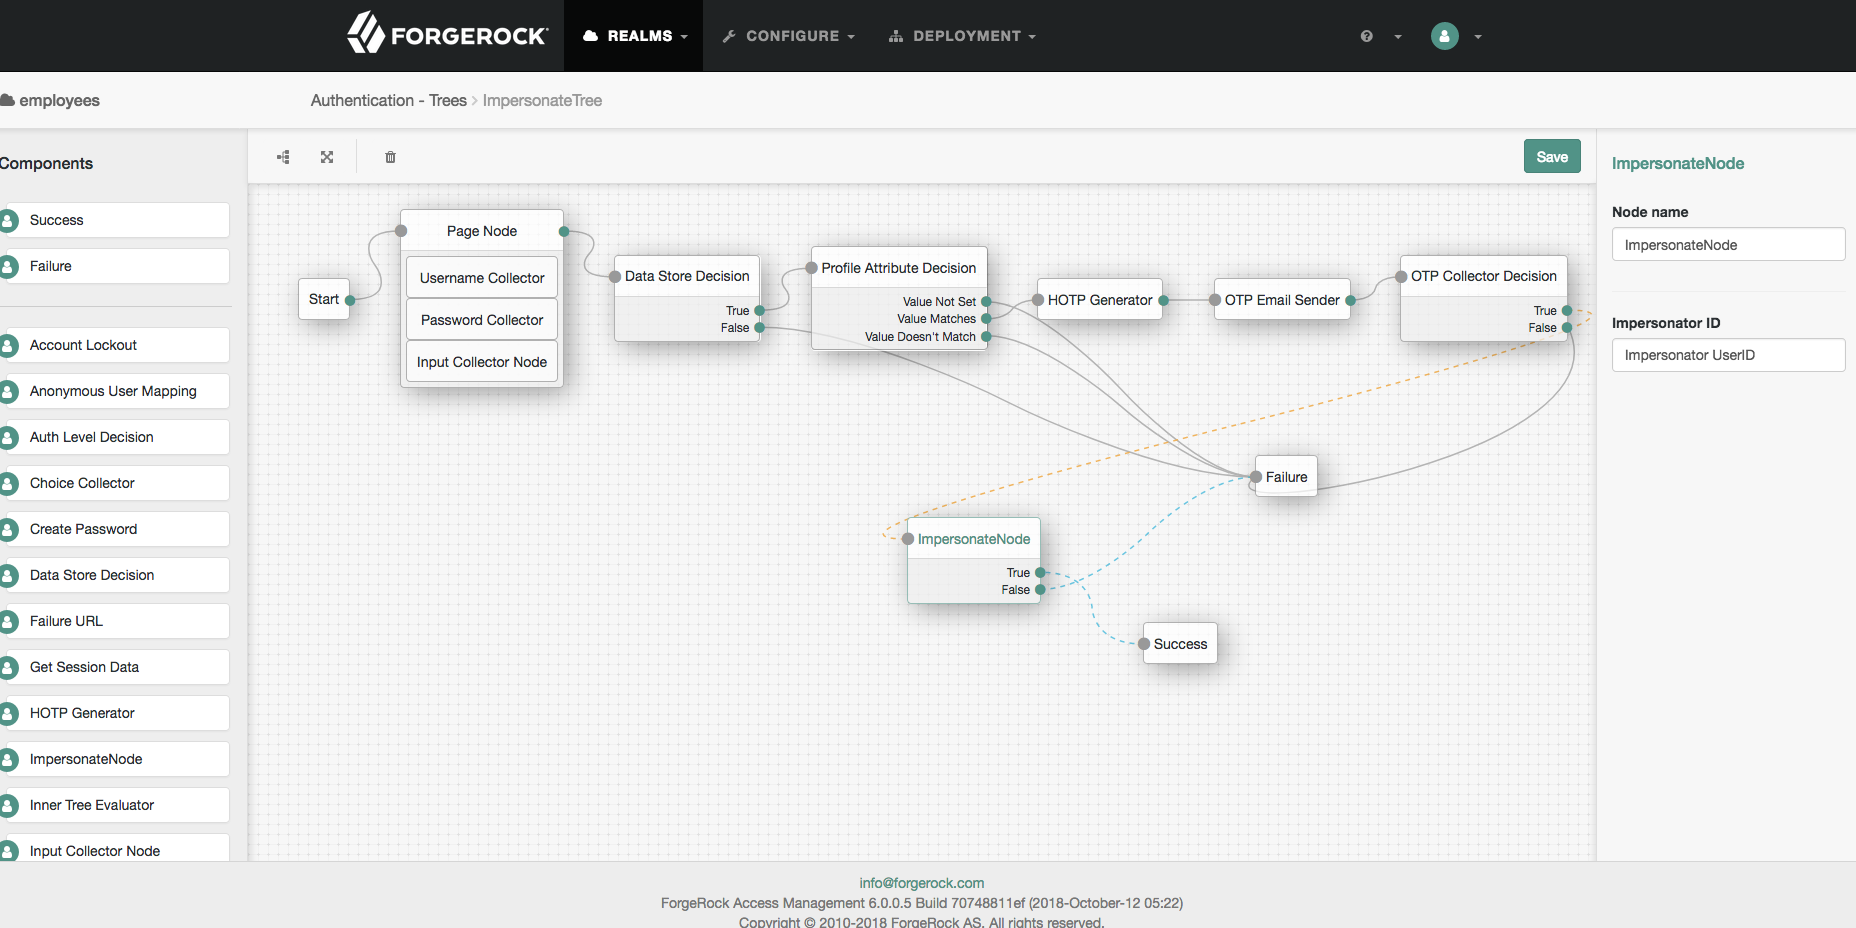
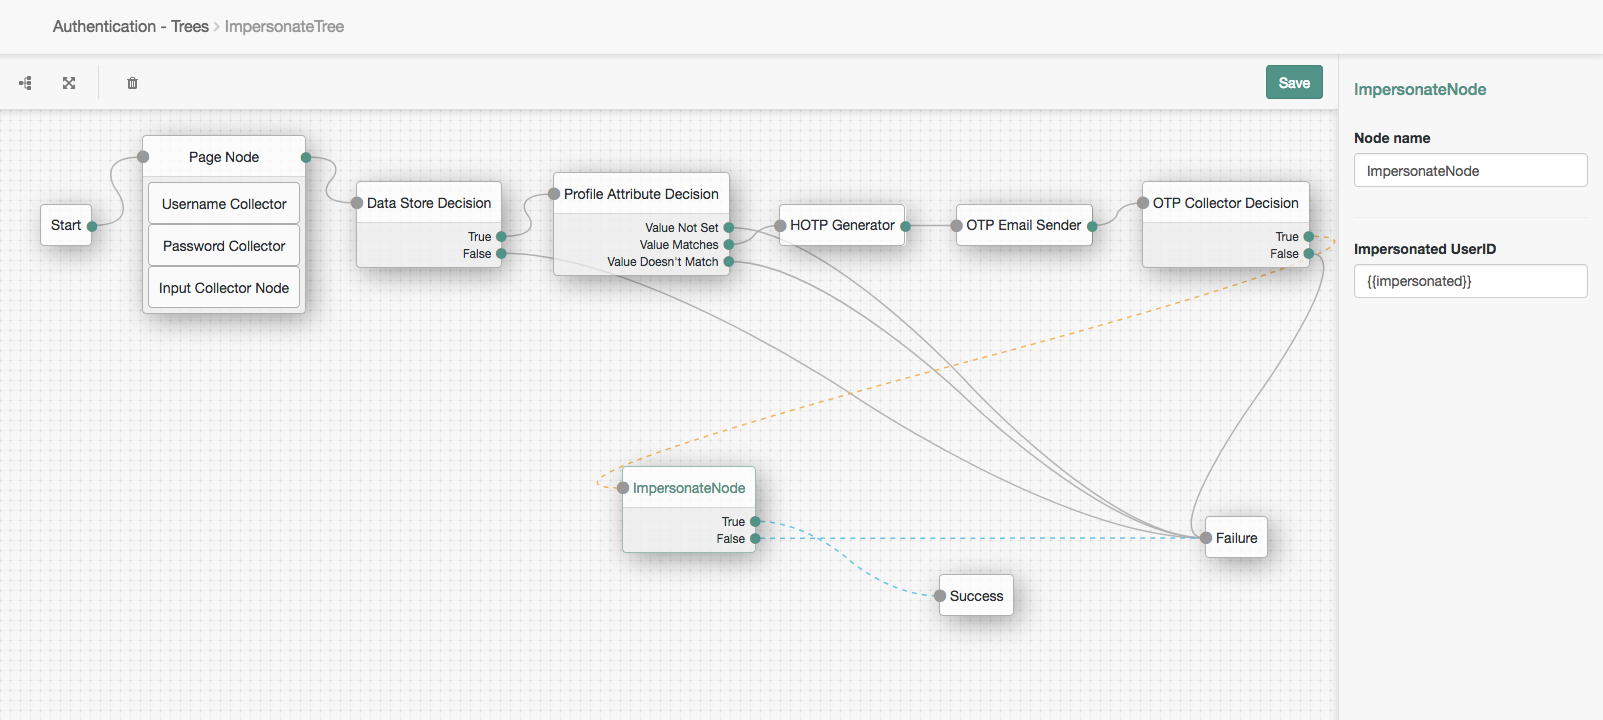
Shared state variable {{impersonator}}

diff --git a/src/main/java/com/example/impersonateNode/ImpersonateNode.java b/src/main/java/com/example/impersonateNode/ImpersonateNode.java
@@ -35,9 +35,8 @@ import static org.forgerock.openam.auth.node.api.SharedStateConstants.USERNAME;
 public class ImpersonateNode extends AbstractDecisionNode {
 
     private final static String DEBUG_FILE = "ImpersonateNode";
-    private static final String DEFAULT_IMP_USER_SHARED_STATE = "Impersonator";
     private final Config config;
-    protected Debug debug = Debug.getInstance(DEBUG_FILE);
+    private Debug debug = Debug.getInstance(DEBUG_FILE);
 
     /**
      * Create the node.
@@ -53,20 +52,20 @@ public class ImpersonateNode extends AbstractDecisionNode {
     @Override
     public Action process(TreeContext context) throws NodeProcessException {
 
-        String impersonateUsername;
+        debug.message("[ImpersonateNode]: Using Impersonator: " + context.sharedState.get(USERNAME).asString());
 
-        // Get impersonator from shared state
-        if (context.sharedState.isDefined(DEFAULT_IMP_USER_SHARED_STATE)) {
-            impersonateUsername = context.sharedState.get(DEFAULT_IMP_USER_SHARED_STATE).asString();
-        } else {
-            // Get impersonator from node config
-            impersonateUsername = config.impersonator();
+        String impersonatedUserID = config.impersonatedUserID();
+
+        // Get impersonatedUserID from shared state
+        if ((impersonatedUserID.indexOf("{{") == 0) && (impersonatedUserID.indexOf("}}") == (impersonatedUserID.length() - 2))) {
+            impersonatedUserID = context.sharedState.get(impersonatedUserID.substring(2, impersonatedUserID.length() - 2)).asString();
+            debug.message("[ImpersonateNode]:  Found existing shared state attribute {{impersonated}}: " + impersonatedUserID);
         }
 
-        debug.message("Impersonate node using impersonator:" + impersonateUsername);
+        debug.message("[ImpersonateNode]: Using Impersonated UserID:" + impersonatedUserID);
 
-        // Changing the shared state "username" to impersonator
-        return goTo(true).replaceSharedState(context.sharedState.copy().put(USERNAME, impersonateUsername)).build();
+        // Changing the shared state "username" to impersonatedUserID
+        return goTo(true).replaceSharedState(context.sharedState.copy().put(USERNAME, impersonatedUserID)).build();
     }
 
     /**
@@ -74,8 +73,8 @@ public class ImpersonateNode extends AbstractDecisionNode {
      */
     public interface Config {
         @Attribute(order = 100)
-        default String impersonator() {
-            return "Impersonator UserID";
+        default String impersonatedUserID() {
+            return "{{impersonated}}";
         }
     }
 }
